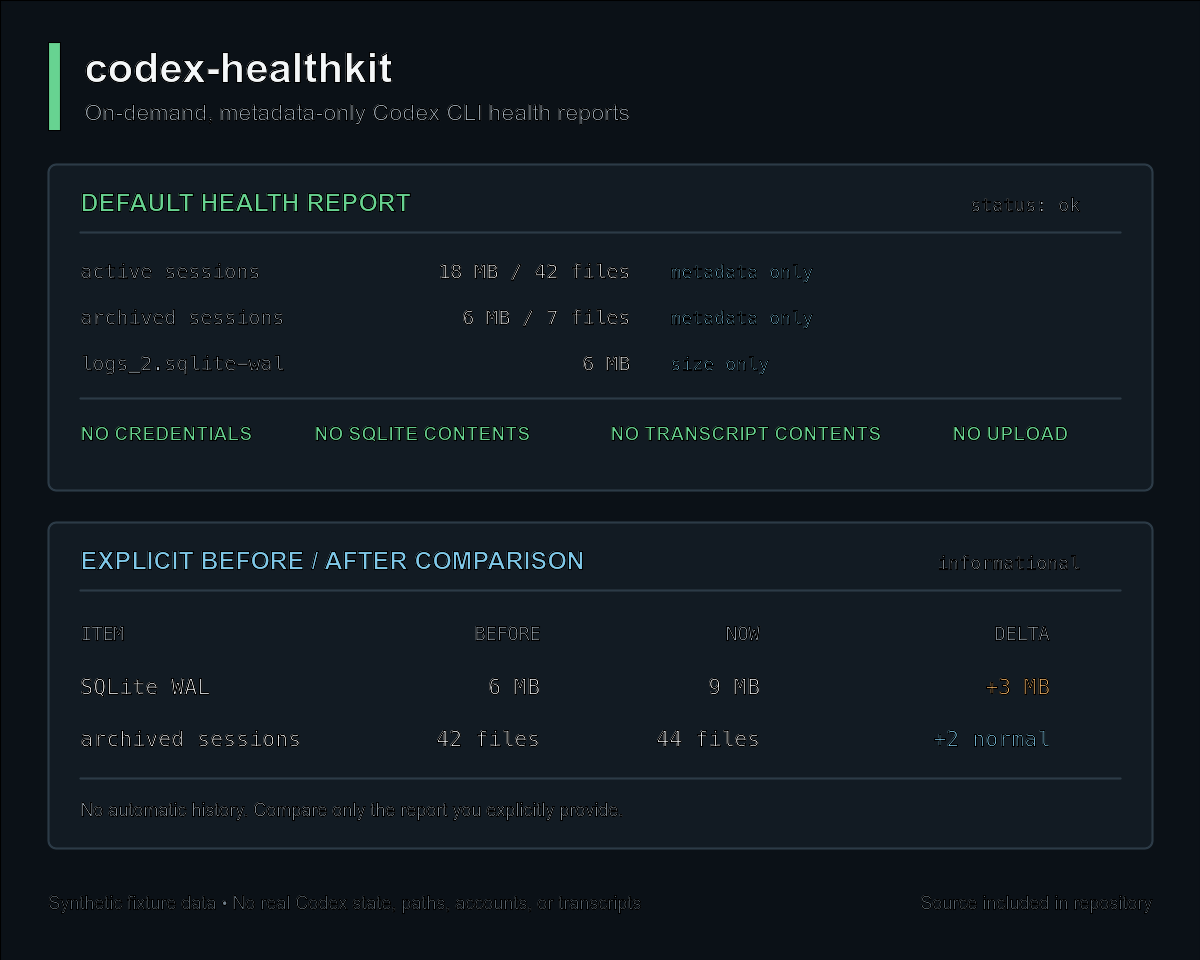
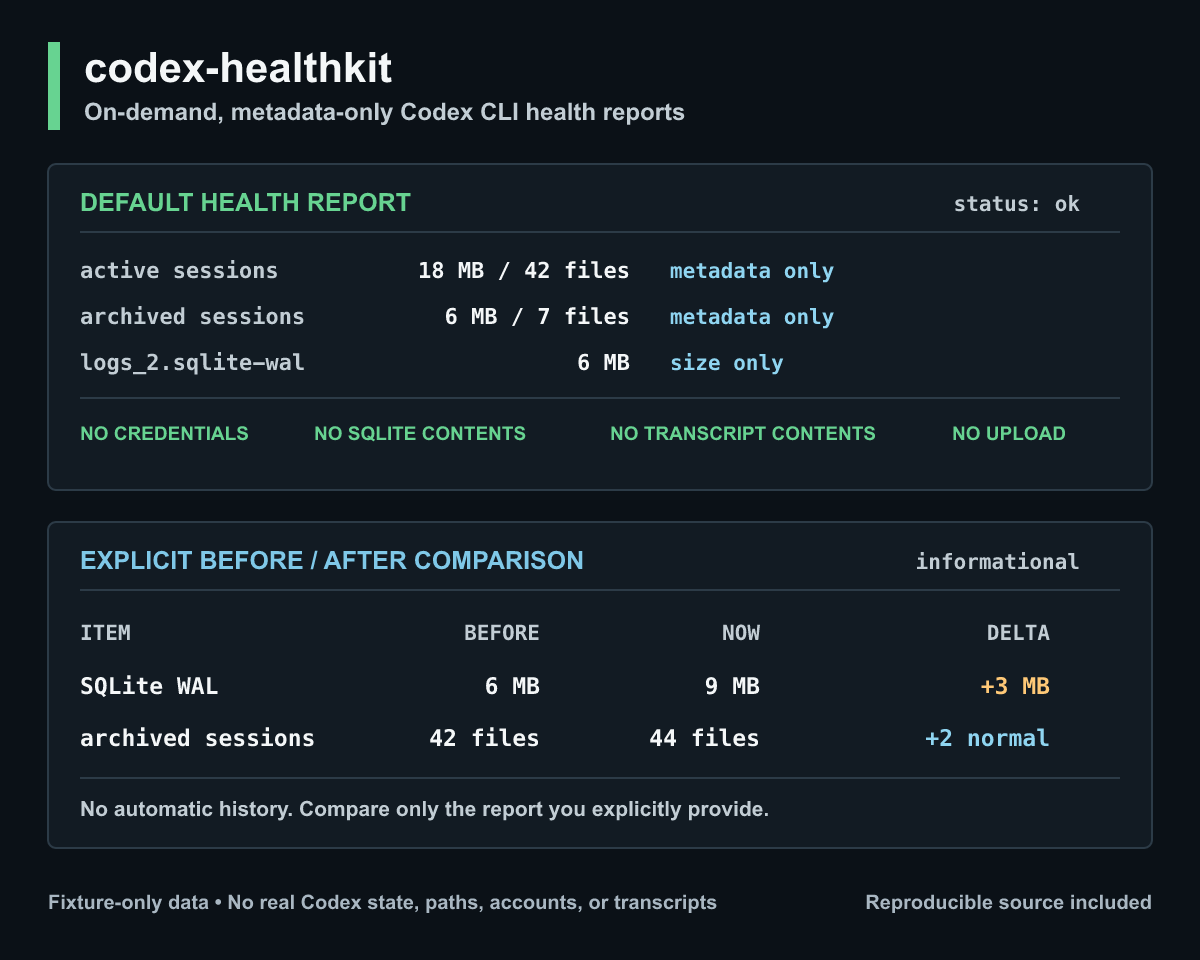
視覚素材の可読性を改善

diff --git a/README.ja.md b/README.ja.md
@@ -8,22 +8,16 @@
 
 [English](README.md)
 
-`codex-healthkit` は、Codexを毎日使う人が、自分のローカル状態を安全に確認し、必要に応じて共有できるレポートを作るための小さなCLIです。
+`codex-healthkit` は、Codexを日常的に使う人向けの、必要な時だけ実行するCLI health reportです。debug、issue作成、相談の前に、local sessionとSQLite WALのmetadataを確認できます。
 
-Codex CLI health check、Codexのローカル環境点検、sessionやSQLite WALのmetadata確認、相談前に共有しやすいsafe-to-share reportが必要な時の入口として使えます。
-
-デフォルトではローカルファイルのメタデータだけを確認します。認証情報、token、cookie、SQLiteの中身、session transcriptの中身は読みません。
-
-`codex-healthkit` は、daemon、dashboard、常駐監視、session recorderではありません。background serviceやWeb UIは不要で、Codex sessionを監視・記録しません。必要な時にだけ、共有前に自分で確認できるmetadata-onlyのCLI reportを作ります。
-
-OpenAI公式のプロジェクトではありません。
+デフォルトでは`codex`を実行せず、認証情報、token、cookie、SQLite本文、session transcript本文を読みません。daemon、dashboard、常駐監視、session recorderではなく、background serviceやWeb UIも不要です。OpenAI公式のプロジェクトではありません。
 
 ## 30秒で試す
 
 default modeに必要なのはBashと標準的なUnix toolsだけです。`codex`は実行しません。
 
 ```bash
-git clone https://github.com/Ishikawa-Hidekazu/codex-healthkit.git
+git clone --depth 1 https://github.com/Ishikawa-Hidekazu/codex-healthkit.git
 cd codex-healthkit
 ./bin/codex-healthkit check
 ```
@@ -34,8 +28,8 @@ reportのuploadは行いません。
 ## 何が出るか
 
 <picture>
-  <source media="(max-width: 600px)" srcset="assets/health-report-mobile.png">
-  <img src="assets/health-report-overview.png" alt="fixtureだけで作ったcodex-healthkitの通常health reportと明示的なbefore/after比較。credential、SQLite本文、transcript本文を読まず、uploadしないことを示しています。">
+  <source media="(max-width: 600px)" srcset="assets/source/health-report-mobile.svg">
+  <img src="assets/source/health-report-overview.svg" alt="fixtureだけで作ったcodex-healthkitの通常health reportと明示的なbefore/after比較。credential、SQLite本文、transcript本文を読まず、uploadしないことを示しています。">
 </picture>
 
 [public-safeなtext sample](examples/report.redacted.md) ·

diff --git a/README.md b/README.md
@@ -8,15 +8,9 @@ Metadata-only OpenAI Codex CLI health checks for sessions, SQLite WAL, `codex do
 
 [日本語版](README.ja.md)
 
-`codex-healthkit` is a small CLI tool for people who use Codex every day and want a safe, reviewable local environment report before debugging, opening an issue, or asking for help.
+`codex-healthkit` is an on-demand CLI health report for daily Codex users. It checks local session and SQLite WAL metadata before debugging, opening an issue, or asking for help.
 
-If you are looking for a Codex CLI health check, a safe-to-share Codex local report, or a quick way to inspect session and SQLite WAL metadata, start here.
-
-By default, it performs local file metadata checks only. It does **not** read credentials, token files, cookies, SQLite contents, or session transcript contents.
-
-`codex-healthkit` is not a daemon, dashboard, live monitor, or session recorder. It does not require a background service or web UI, and it does not watch or record Codex sessions. It creates an on-demand, metadata-only CLI report that you can review before sharing.
-
-Not affiliated with OpenAI.
+By default, it does **not** execute `codex` or read credentials, token files, cookies, SQLite contents, or session transcript contents. It is not a daemon, dashboard, live monitor, or session recorder, and it does not require a background service or web UI. Not affiliated with OpenAI.
 
 ## 30-Second Quick Start
 
@@ -24,7 +18,7 @@ Default mode needs only Bash and standard Unix tools. It does not execute
 `codex`.
 
 ```bash
-git clone https://github.com/Ishikawa-Hidekazu/codex-healthkit.git
+git clone --depth 1 https://github.com/Ishikawa-Hidekazu/codex-healthkit.git
 cd codex-healthkit
 ./bin/codex-healthkit check
 ```
@@ -35,8 +29,8 @@ install a daemon, modify Codex state, or upload the report.
 ## What You Get
 
 <picture>
-  <source media="(max-width: 600px)" srcset="assets/health-report-mobile.png">
-  <img src="assets/health-report-overview.png" alt="Synthetic codex-healthkit output showing a default metadata-only health report and an explicit before-and-after comparison without credentials, SQLite contents, transcript contents, or uploads.">
+  <source media="(max-width: 600px)" srcset="assets/source/health-report-mobile.svg">
+  <img src="assets/source/health-report-overview.svg" alt="Fixture-only codex-healthkit output showing a default metadata-only health report and an explicit before-and-after comparison without credentials, SQLite contents, transcript contents, or uploads.">
 </picture>
 
 [View the public-safe text sample](examples/report.redacted.md) ·

diff --git a/assets/source/README.md b/assets/source/README.md
@@ -12,7 +12,9 @@ Render the PNG files from the repository root:
 scripts/render-visuals.sh
 ```
 
-Rendering requires ImageMagick 7 and does not read local Codex state.
+Rendering requires [resvg](https://github.com/linebender/resvg) 0.47 or newer.
+ImageMagick 7 is used only for output validation. Rendering does not read local
+Codex state.
 
 Generated files:
 
@@ -20,6 +22,7 @@ Generated files:
 - `assets/health-report-mobile.png` — mobile README visual, 750 x 1200
 - `assets/social-preview.png` — GitHub Social Preview candidate, 1280 x 640
 
-The README uses a responsive `picture` element to choose the mobile visual at
-600 pixels or narrower. The render script also rejects unexpected dimensions
-and files larger than 500 KB.
+The README links directly to these SVG sources for crisp text and uses a
+responsive `picture` element to choose the mobile visual at 600 pixels or
+narrower. The generated PNGs are review and social-preview artifacts. The
+render script rejects unexpected dimensions and files larger than 500 KB.